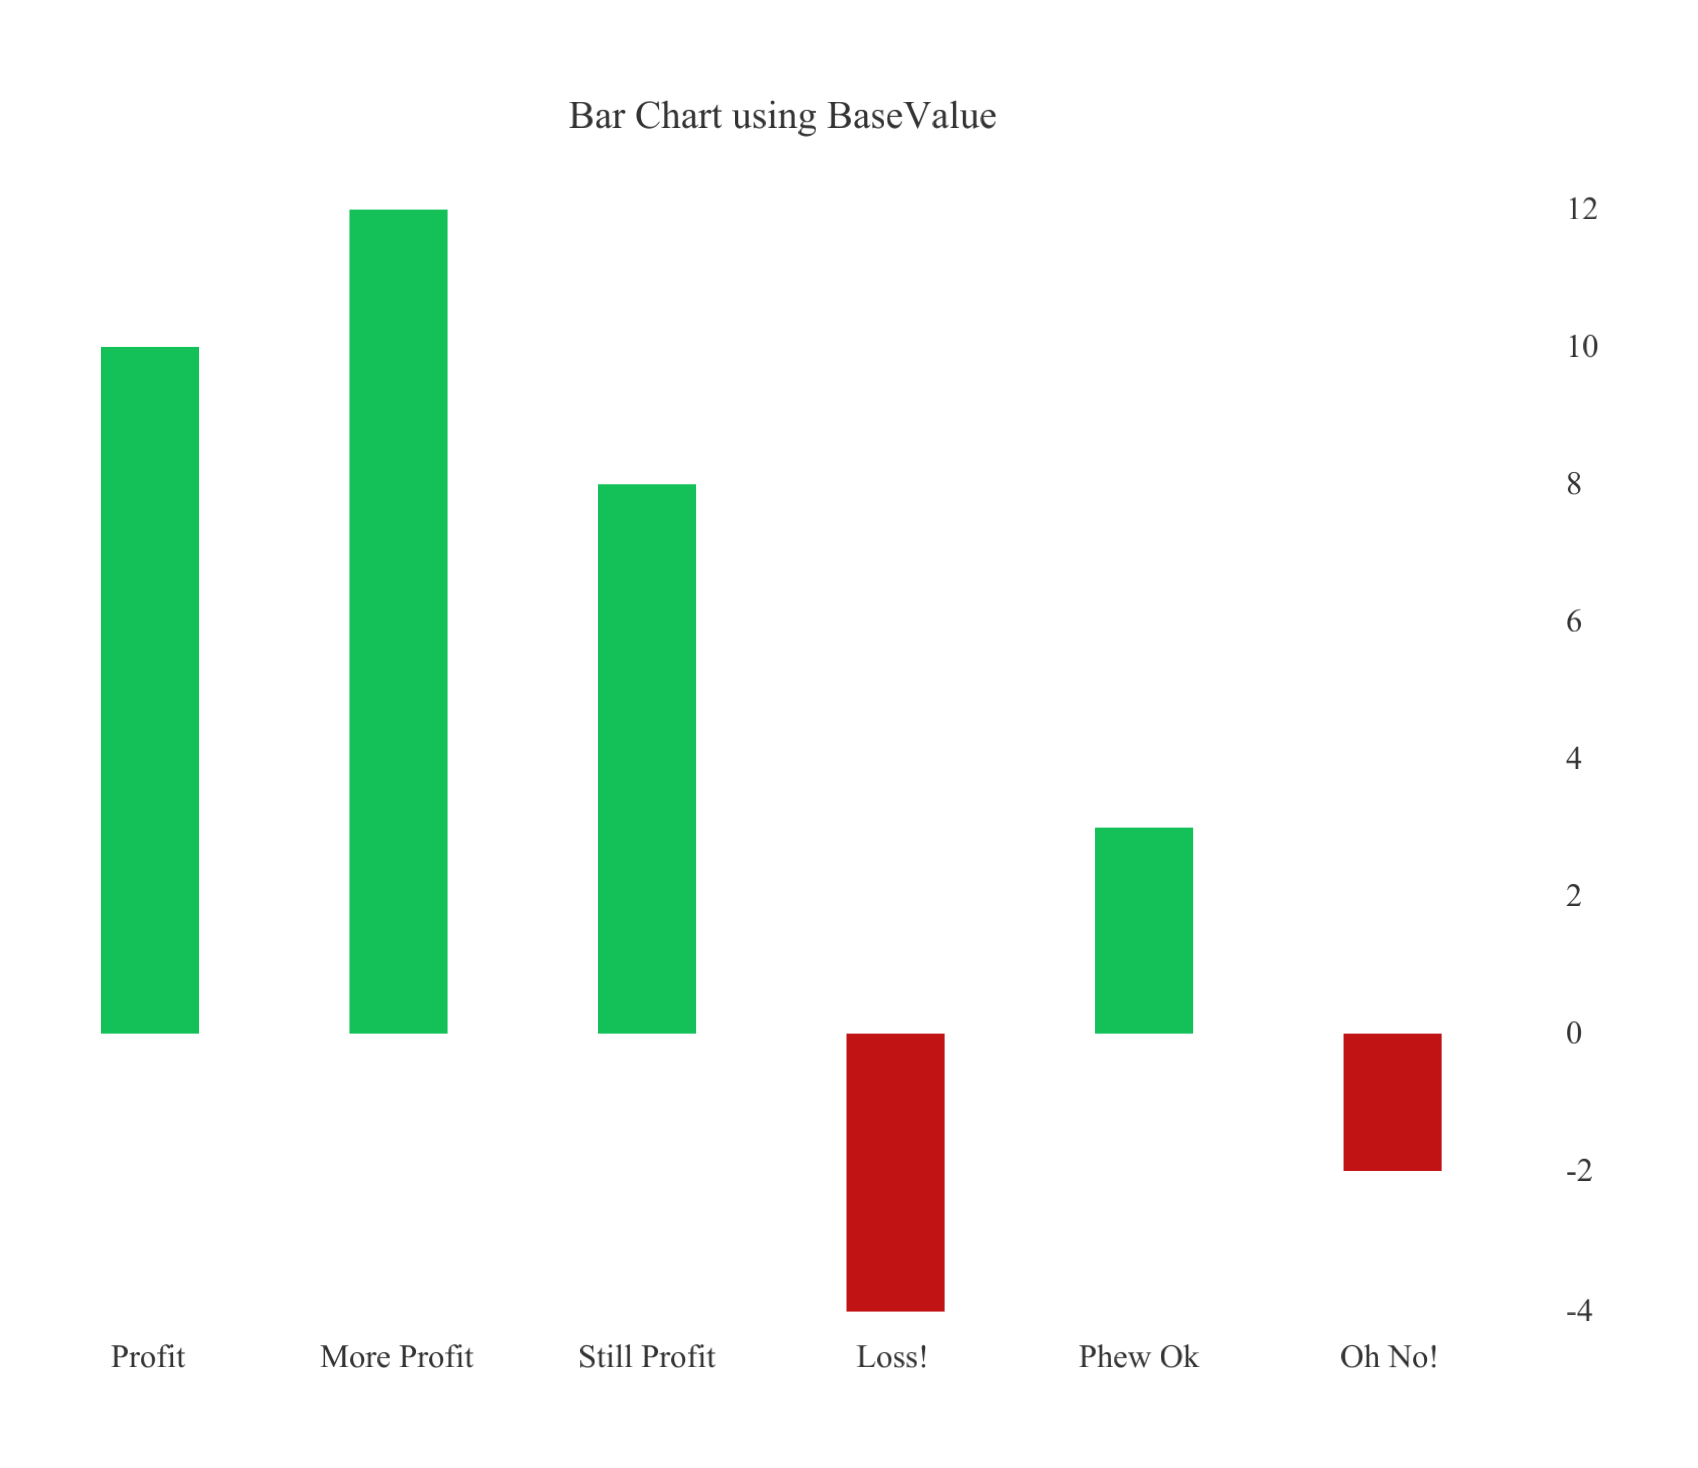
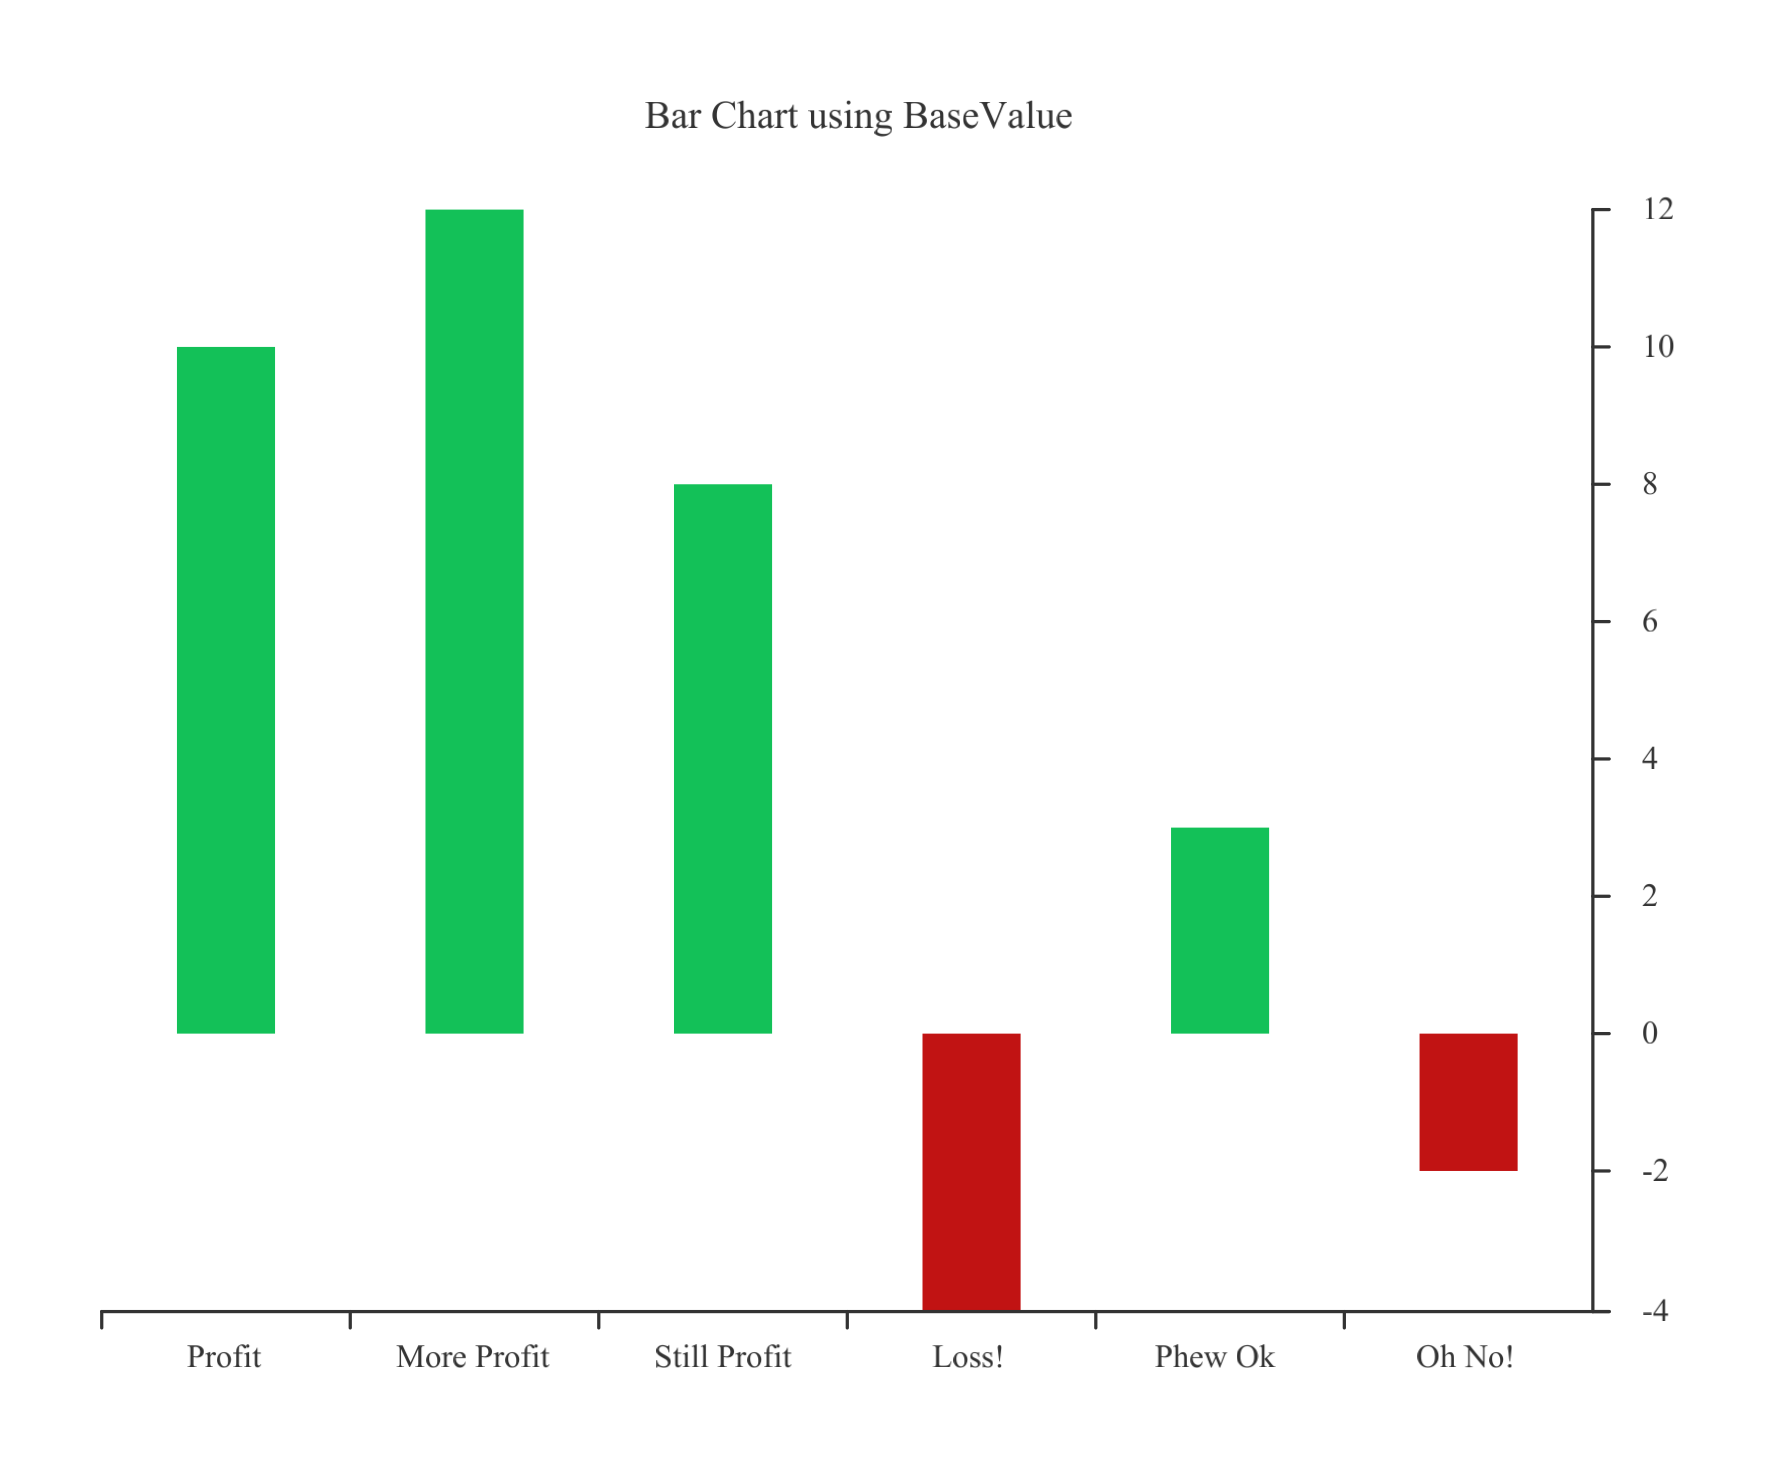
[US-90] Fix chart axis line not rendered to image issue (#7)
* set missing default stroke width

* update examples

* update examples

diff --git a/stacked_bar_chart.go b/stacked_bar_chart.go
@@ -600,6 +600,7 @@ func (sbc StackedBarChart) getTitleFontSize() float64 {
 func (sbc StackedBarChart) styleDefaultsAxes() render.Style {
 	return render.Style{
 		StrokeColor:         render.DefaultLineColor,
+		StrokeWidth:         defaultAxisLineWidth,
 		Font:                sbc.GetFont(),
 		FontSize:            defaultAxisFontSize,
 		FontColor:           render.DefaultLineColor,
@@ -612,6 +613,7 @@ func (sbc StackedBarChart) styleDefaultsAxes() render.Style {
 func (sbc StackedBarChart) styleDefaultsHorizontalAxes() render.Style {
 	return render.Style{
 		StrokeColor:         render.DefaultLineColor,
+		StrokeWidth:         defaultAxisLineWidth,
 		Font:                sbc.GetFont(),
 		FontSize:            defaultAxisFontSize,
 		FontColor:           render.DefaultLineColor,

diff --git a/bar_chart.go b/bar_chart.go
@@ -513,6 +513,7 @@ func (bc *BarChart) getTitleFontSize() float64 {
 func (bc *BarChart) styleDefaultsAxes() render.Style {
 	return render.Style{
 		StrokeColor:         bc.GetColorPalette().AxisStrokeColor(),
+		StrokeWidth:         defaultAxisLineWidth,
 		Font:                bc.GetFont(),
 		FontSize:            defaultAxisFontSize,
 		FontColor:           bc.GetColorPalette().TextColor(),
